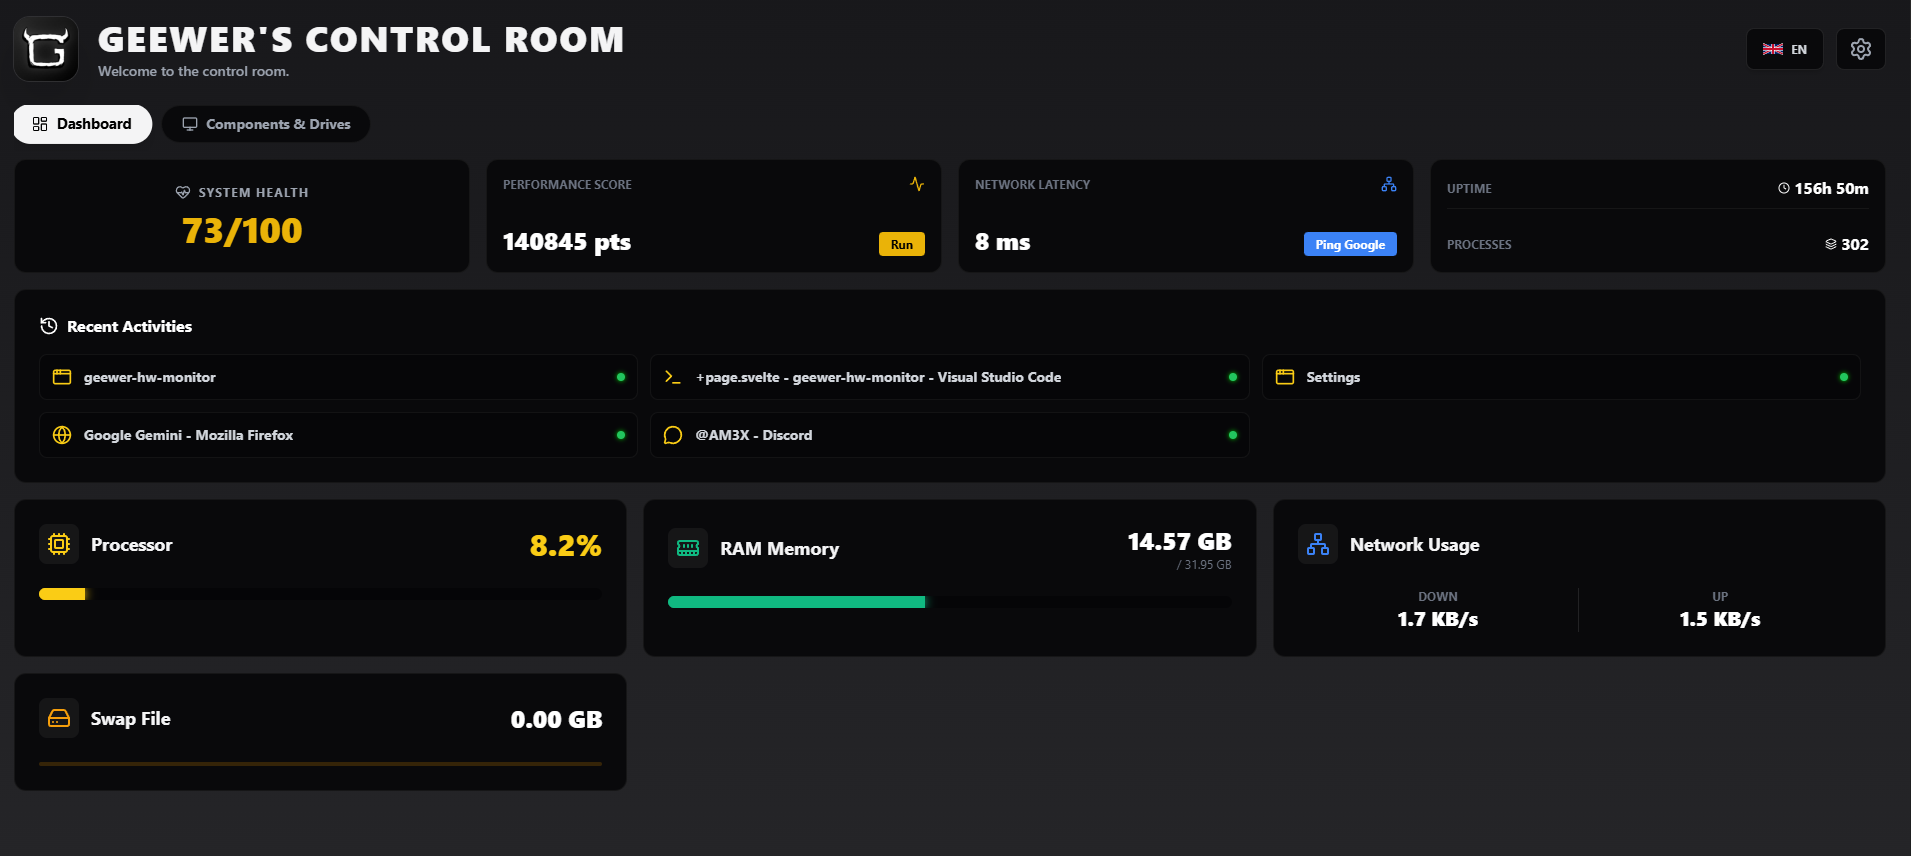
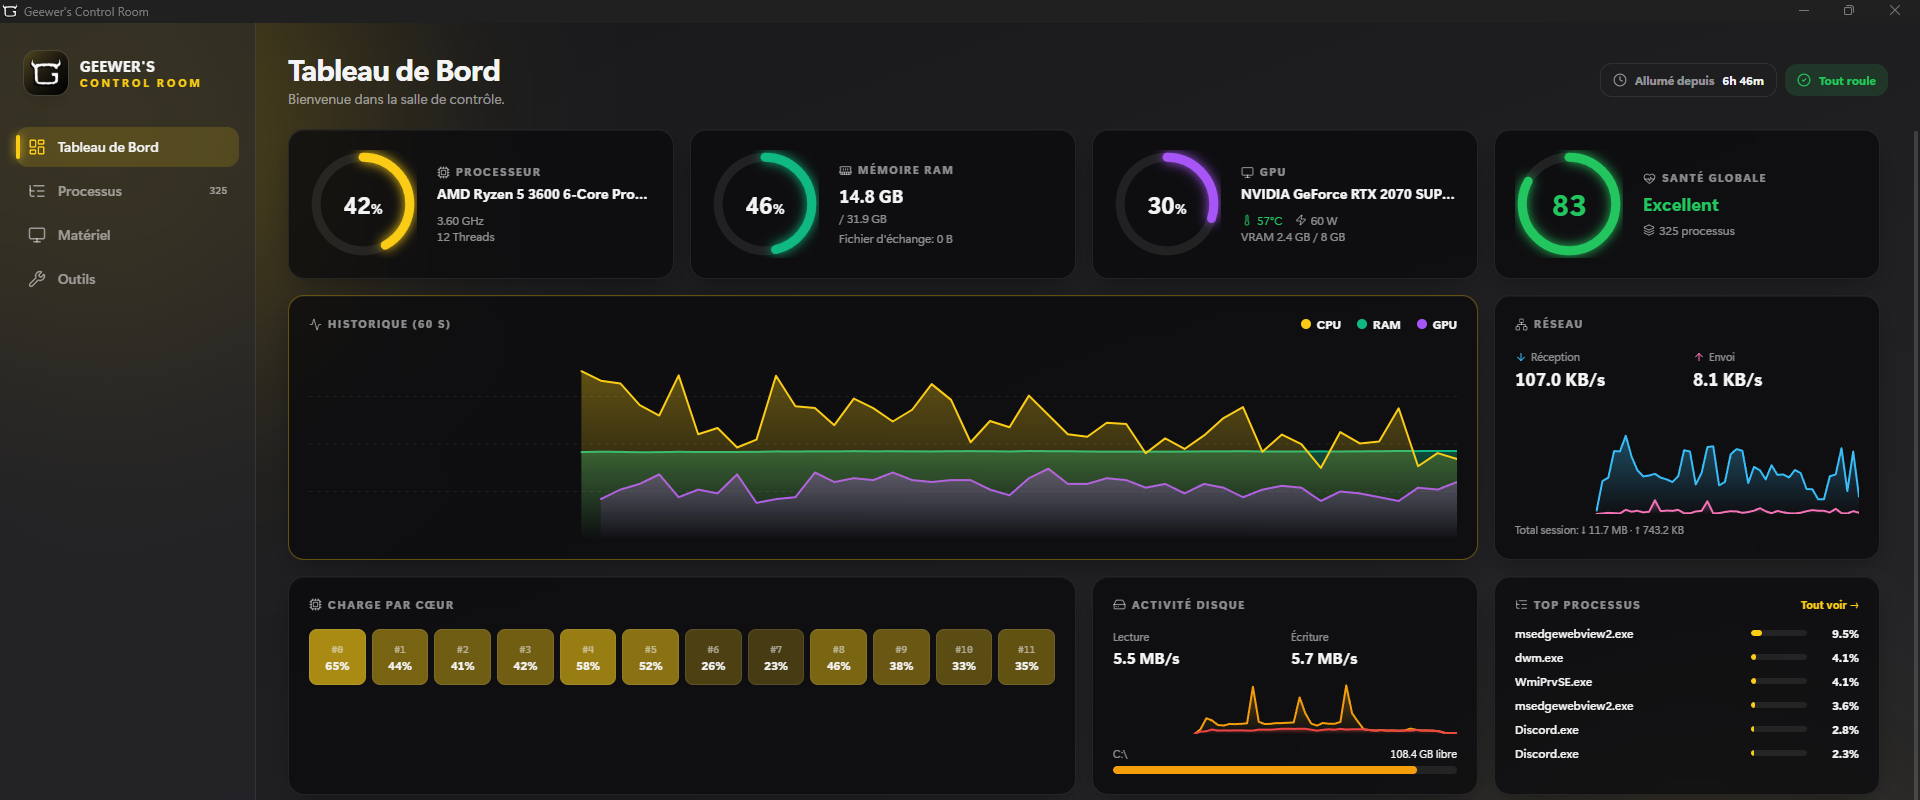
README et capture pour la 1.1.0

diff --git a/README.md b/README.md
@@ -1,6 +1,6 @@
-# Geewer's Control Room 1.0.4
+# Geewer's Control Room 1.1.0
 
-![Version](https://img.shields.io/badge/version-1.0.4-blue?style=flat-square)
+![Version](https://img.shields.io/badge/version-1.1.0-blue?style=flat-square)
 ![Tauri](https://img.shields.io/badge/Tauri-2.0-orange?style=flat-square&logo=tauri)
 ![Svelte](https://img.shields.io/badge/Svelte-red?style=flat-square&logo=svelte)
 ![Platform](https://img.shields.io/badge/platform-Windows-blueviolet?style=flat-square&logo=windows)
@@ -17,16 +17,16 @@ C'est léger, ça ne bouffe pas tes FPS, et c'est codé avec **Tauri (Rust)** po
 
 ## 🇫🇷 Fonctionnalités
 
-L'idée est de rassembler tout ce qu'il faut savoir sur ta machine au même endroit :
-
-* **Tableau de Bord Temps Réel** : Surveille la charge CPU, l'utilisation de la RAM, le Swap et surtout ton débit réseau actuel (Upload/Download) à la seconde près.
-* **Santé du PC** : Une note globale sur 100 calculée en direct pour savoir si ton système est en souffrance.
-* **Outils Intégrés** :
-    * 🚀 **Dernières Activités** : Vois quelles applications tu as lancées récemment (avec icônes intelligentes).
-    * 🧪 **Benchmark CPU** : Teste la puissance brute de ton processeur avec un calcul intensif.
-    * 🌐 **Test Latence** : Un ping rapide vers Google pour vérifier si ta connexion lag.
-* **Specs Détaillées** : Détection intelligente de ta "vraie" carte graphique (ignore les drivers virtuels), liste de tes disques avec barres d'espace, et tri de tes périphériques (Écrans, Audio, Claviers...).
-* **C'est ton interface** : Change la couleur d'accentuation, le fond des cartes et le thème global pour matcher ton setup.
+* **Tableau de Bord Temps Réel** : jauges CPU / RAM / GPU, historique sur 60 s, charge par cœur, débit réseau et activité disque à la seconde.
+* **GPU en direct** (NVIDIA) : charge, température, VRAM, consommation et ventilateur.
+* **Santé du PC** : note sur 100 + alertes visuelles quand le CPU, la RAM ou la température GPU dépassent tes seuils.
+* **Gestionnaire de Processus** : top 60 des processus, recherche, tri, et bouton « Terminer » avec confirmation.
+* **Matériel détaillé** : CPU, vraie carte graphique (ignore les adaptateurs virtuels), barrettes RAM, carte mère, BIOS, disques et périphériques. Copie du rapport complet en un clic.
+* **Outils** :
+    * 🧪 **Benchmark CPU** mono et multi-cœur, avec historique et record.
+    * 🌐 **Test Réseau** vers Google, Cloudflare et Quad9 : latence, gigue et pertes.
+* **Barre des tâches** : icône avec CPU/RAM au survol, option pour réduire l'app au lieu de la fermer.
+* **C'est ton interface** : 12 thèmes + personnalisation complète des couleurs, FR/EN, raccourcis clavier (1-4, Échap).
 
 ---
 
@@ -74,14 +74,14 @@ Tired of the ugly Task Manager? This app provides a sleek, Cyberpunk-inspired in
 
 ### ⚡ What can it do?
 
-* **Real-time Dashboard:** Monitor CPU, RAM, Swap, and Network bandwidth (Up/Down) live.
-* **System Health:** A live global score out of 100 based on system load.
-* **Built-in Tools:**
-    * 🚀 **Recent Activities:** Tracks recently opened applications (with smart icons).
-    * 🧪 **CPU Benchmark:** Test your processor's raw power.
-    * 🌐 **Latency Test:** Quick ping to check your internet stability.
-* **Advanced Specs:** Smart GPU detection, Drive storage visualization, and organized Peripheral list (Monitors, Audio, Inputs...).
-* **Customization:** Fully themeable interface.
+* **Real-time Dashboard:** CPU / RAM / GPU gauges, 60 s history, per-core load, network and disk throughput.
+* **Live GPU stats** (NVIDIA): load, temperature, VRAM, power and fan.
+* **System Health:** a live score out of 100 plus alerts with configurable thresholds.
+* **Process Manager:** top 60 processes, search, sort, end task with confirmation.
+* **Advanced Specs:** CPU, real GPU, RAM modules, motherboard, BIOS, drives and peripherals, one-click report copy.
+* **Tools:** single and multi-core CPU benchmark with history, network test (latency, jitter, loss) against 3 DNS servers.
+* **Tray icon** with live stats and optional minimize-to-tray.
+* **Customization:** 12 themes, full color control, FR/EN, keyboard shortcuts.
 
 ### 🛠 Installation
 
